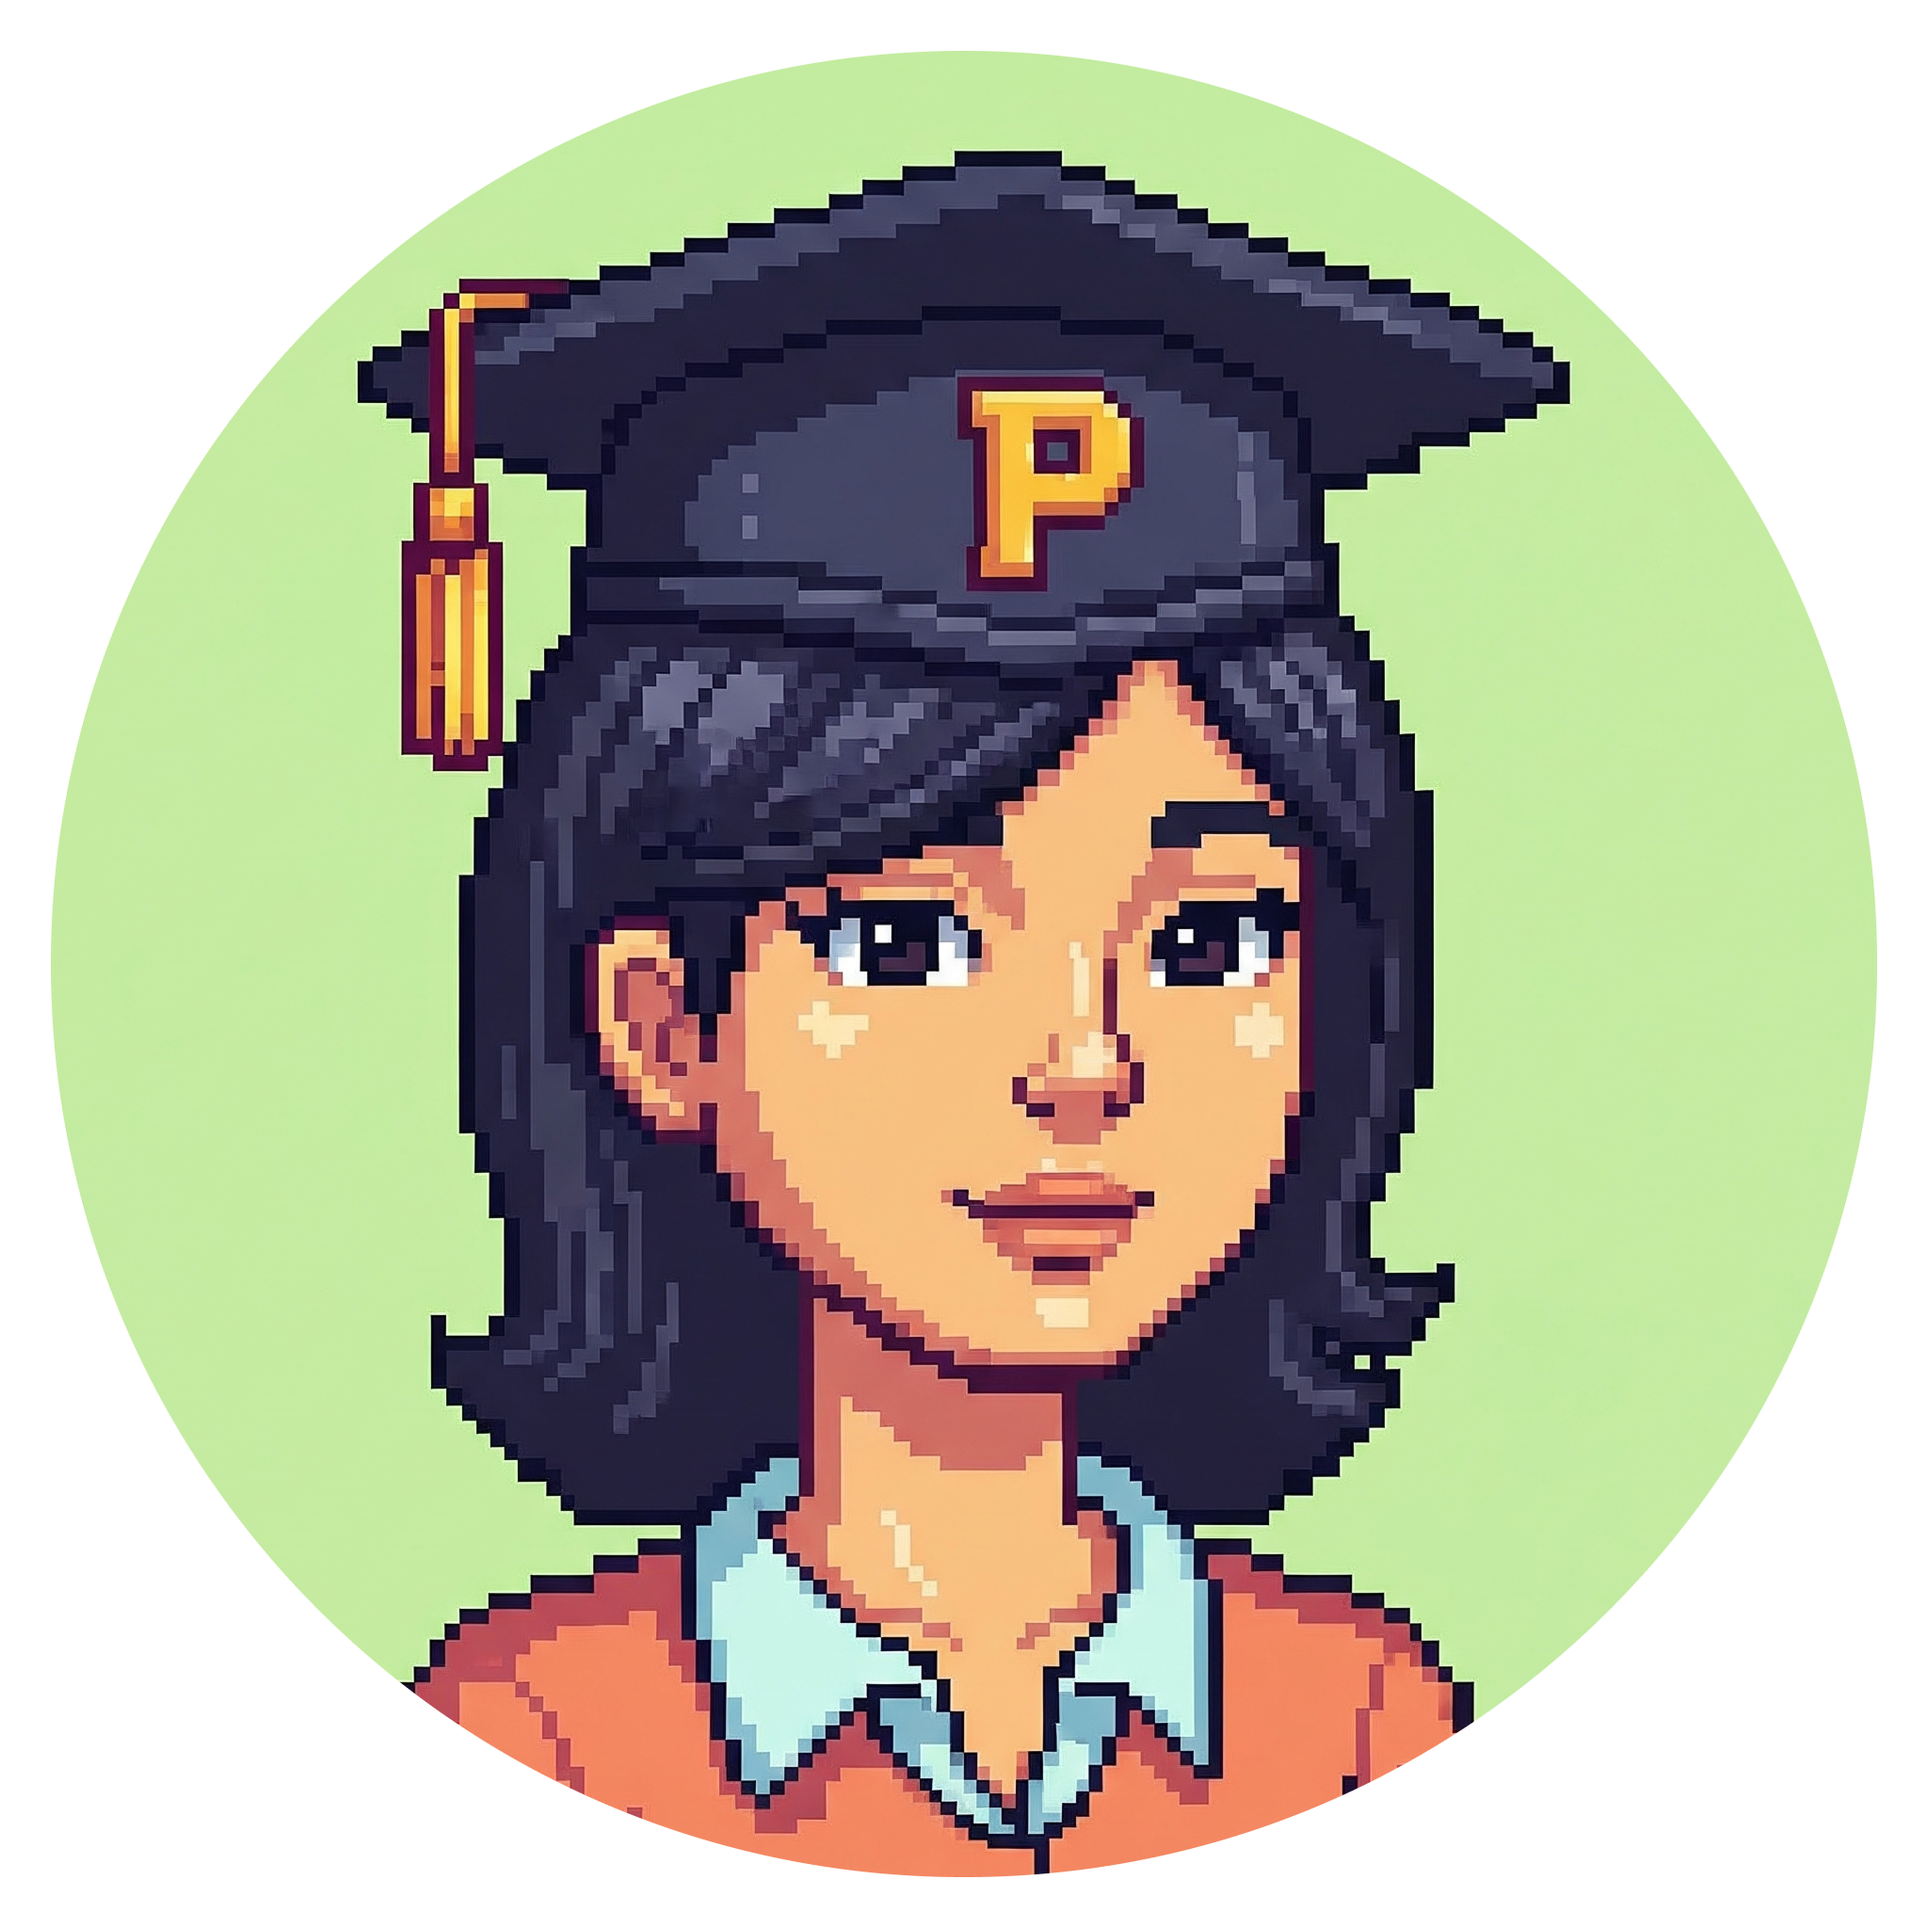
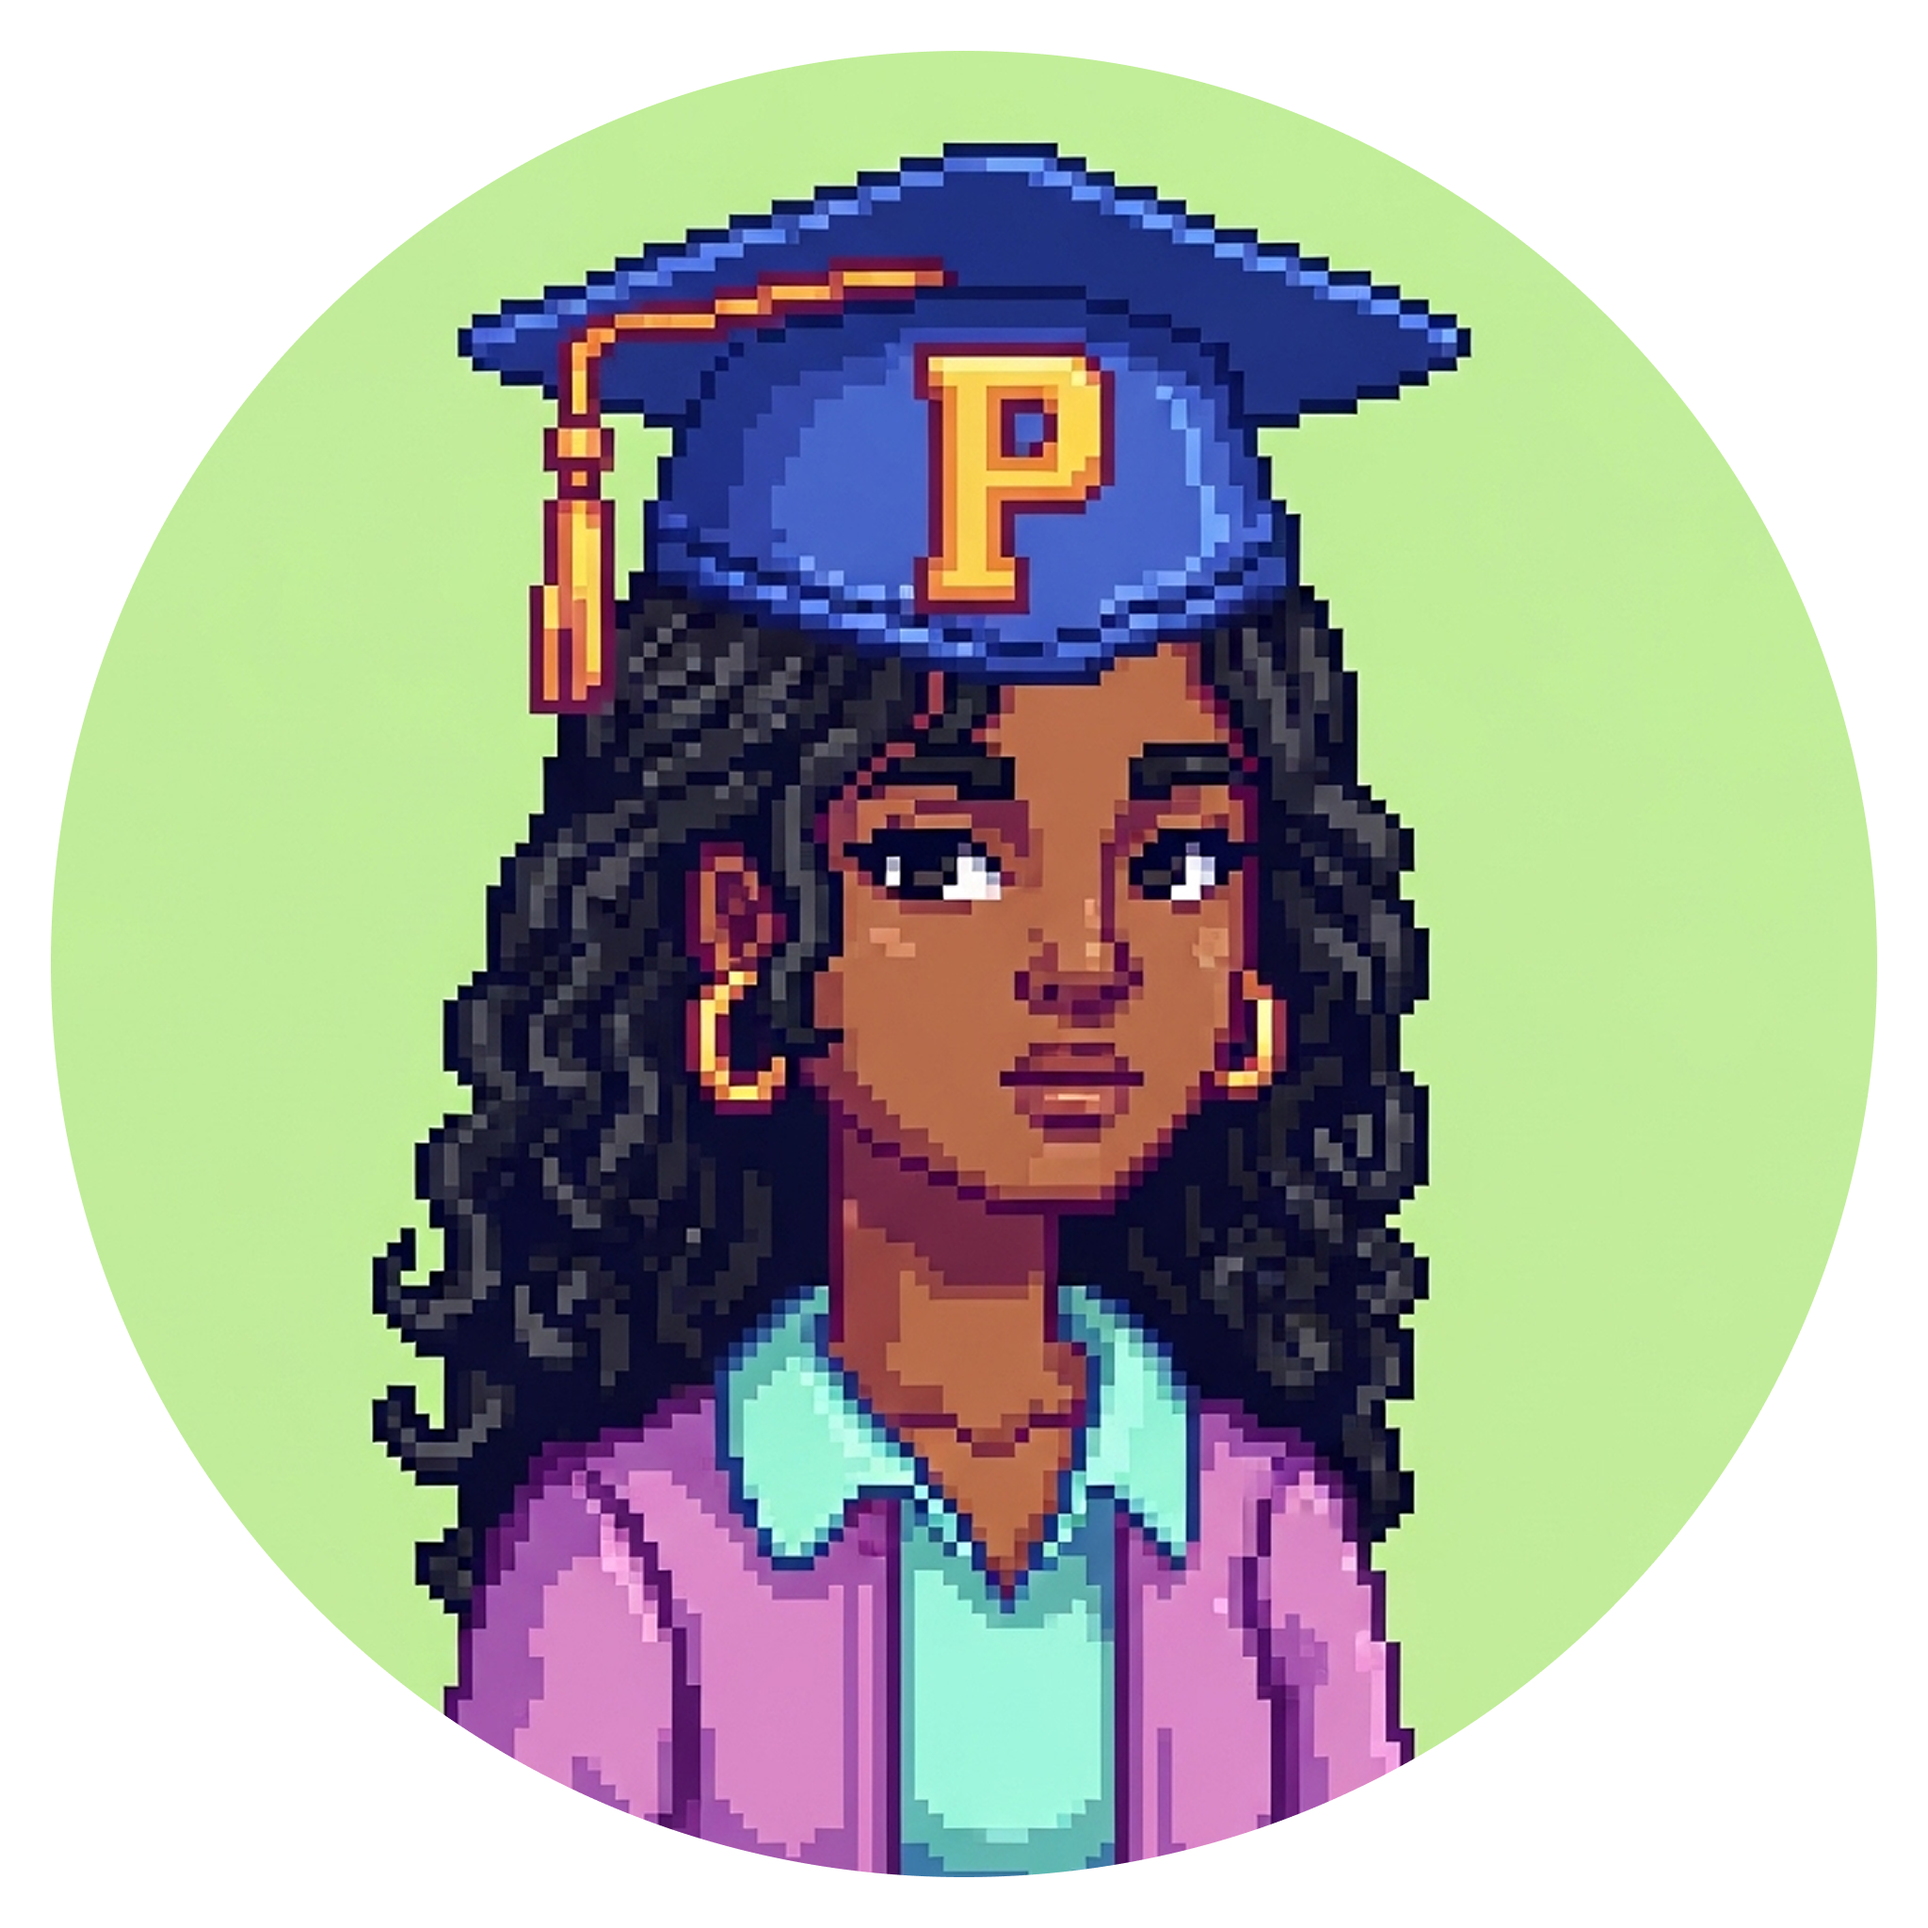
função de desbloquear avatares adicionada

diff --git a/public/js/navbar.js b/public/js/navbar.js
@@ -1,35 +1,22 @@
-function initNavFunctionality() {
-  const navLinks = document.querySelectorAll('.nav-menu a');
-  
-  navLinks.forEach(link => {
-      link.addEventListener('click', function(event) {
-          event.preventDefault();
-          const targetSection = document.querySelector(this.getAttribute('href'));
-          if (targetSection) {
-              targetSection.scrollIntoView({ behavior: 'smooth' });
-          }
-      });
-  });
-}
-
 // Função para carregar a barra de navegação
 function loadNavbar() {
-  fetch('/views/nav.html') // Carrega o conteúdo de navbar.html
-      .then(response => response.text())
-      .then(data => {
-          document.getElementById('navbar').innerHTML = data;
-          initNavFunctionality(); // Inicializa as funcionalidades após carregar a nav
-          verificarLogin(); // Verifica o estado de login após a navbar ser carregada
-      });
+  fetch('/views/nav.html')
+    .then(response => response.text())
+    .then(data => {
+      document.getElementById('navbar').innerHTML = data;
+      verificarLogin(); // Verifica o estado de login após carregar a navbar
+    })
+    .catch(err => {
+      console.error("Erro ao carregar navbar:", err);
+    });
 }
 
 // Redireciona para o topo da página inicial
 function navegacaoLogo() {
   const path = window.location.pathname;
-
   if (path === "/") {
     window.location = '#section-home';
-  } else{
+  } else {
     window.location = '/#section-home';
   }
 }
@@ -45,8 +32,8 @@ async function navegacaoCursos() {
     window.location = '/cursos';
   } else if (path === "/" && !logado) {
     window.location = '#sectionCursos';
-  } else{
-    window.location = '#inicioCursos';
+  } else {
+    window.location = '/#sectionCursos';
   }
 }
 
@@ -54,11 +41,11 @@ async function navegacaoCursos() {
 async function navegacaoLoja() {
   const resposta = await fetch("/sessao");
   const dados = await resposta.json();
-  const path = window.location.pathname;
   const logado = localStorage.getItem("usuarioLogado") === "true";
+
   if (dados.logado && logado) {
     window.location = '/loja';
-  } else{
+  } else {
     window.location = '/login';
   }
 }
@@ -66,24 +53,19 @@ async function navegacaoLoja() {
 // Redireciona para a seção "Fale Conosco"
 function navegacaoFale() {
   const path = window.location.pathname;
-
   if (path === "/") {
     window.location = '#faleConosco';
-  } else{
-    window.location = '/#faleConosco'; // Corrigido
+  } else {
+    window.location = '/#faleConosco';
   }
 }
 
+// Redireciona para a página de perfil
 function navegacaoPerfil() {
-  const path = window.location.pathname;
-
-  if (path === "/") {
-    window.location = '/PaginaPerfil'
-  }else{
-
-  }
+  window.location = '/PaginaPerfil';
 }
 
+// Verifica se o usuário está logado e ajusta a navbar
 async function verificarLogin() {
   try {
     const resposta = await fetch("/sessao");
@@ -92,19 +74,22 @@ async function verificarLogin() {
 
     if (dados.logado && logado) {
       document.getElementById("nomeUsuario").textContent = dados.usuario.nome;
-      document.getElementById("nome-usuario").innerHTML = `${dados.usuario.nome} <span id="usuario-handle">(@${dados.usuario.nome.toLowerCase()})</span>`;
+      const nomeFormatado = `${dados.usuario.nome} <span id="usuario-handle">(@${dados.usuario.nome.toLowerCase()})</span>`;
+      const nomeUsuarioDiv = document.getElementById("nome-usuario");
+      if (nomeUsuarioDiv) nomeUsuarioDiv.innerHTML = nomeFormatado;
+
       document.getElementById("paeeja-moeda-valor").textContent = dados.usuario.moedas;
 
       document.getElementById("botaoEntrarNav").style.display = "none";
       document.getElementById("botaoCadastrarNav").style.display = "none";
 
       document.getElementById("botaoSair").style.display = "inline";
-      nomeUsuario.hidden = false;
-      iconUsuario.hidden = false;
+      document.getElementById("nomeUsuario").hidden = false;
+      document.getElementById("iconUsuario").hidden = false;
     } else {
       document.getElementById("botaoSair").style.display = "none";
-      nomeUsuario.hidden = true;
-      iconUsuario.hidden = true;
+      document.getElementById("nomeUsuario").hidden = true;
+      document.getElementById("iconUsuario").hidden = true;
     }
   } catch (erro) {
     console.error("Erro ao verificar login:", erro);
@@ -115,7 +100,7 @@ async function verificarLogin() {
 function sairLogin(event) {
   event.preventDefault();
   localStorage.removeItem("usuarioLogado");
-  window.location.href = '/logout'
+  window.location.href = '/logout';
 }
 
 // Executa a carga da navbar quando o DOM está completamente carregado

diff --git a/public/js/loja.js b/public/js/loja.js
@@ -6,6 +6,42 @@ document.addEventListener("DOMContentLoaded", () => {
   const modalMessage = document.getElementById("modal-message");
   const btnClose = document.getElementById("close-modal");
 
+  async function verificarItensComprados() {
+    const imagens = document.querySelectorAll(".item-img");
+    
+    for (const img of imagens) {
+      const itemId = img.dataset.id;
+      const tipo = img.dataset.tipo;
+
+      // Se não tiver ID e tipo, pula (ex: imagem faltando dataset)
+      if (!itemId || !tipo) continue;
+
+      try {
+        const resposta = await fetch("/loja/verificar-compra", {
+          method: "POST",
+          headers: { "Content-Type": "application/json" },
+          body: JSON.stringify({ itemId, tipo }),
+          credentials: "same-origin"
+        });
+
+        const resultado = await resposta.json();
+
+        if (resultado.sucesso && resultado.comprado) {
+          img.src = img.src.replace(".png", "-desblock.png");
+          const parent = img.closest(".item");
+          if (parent) {
+            const price = parent.querySelector("p");
+            if (price) price.remove();
+          }
+        }
+      } catch (error) {
+        console.error("Erro ao verificar item comprado:", error);
+      }
+    }
+  }
+
+  verificarItensComprados();
+
   document.querySelectorAll(".item-img").forEach(img => {
   img.addEventListener("click", async () => {
     selectedItemId = img.dataset.id;
@@ -72,6 +108,18 @@ document.addEventListener("DOMContentLoaded", () => {
       modalMessage.textContent = resultado.message;
       modalMessage.style.color = resultado.sucesso ? "green" : "red";
       btnClose.style.display = "inline-block";
+      if (resultado.sucesso) {
+        const img = document.querySelector(`.item-img[data-id="${selectedItemId}"][data-tipo="${selectedTipo}"]`);
+        if (img) {
+          img.src = img.src.replace(".png", "-desblock.png");
+          const parent = img.closest(".item");
+          if (parent) {
+            const price = parent.querySelector("p");
+            if (price) price.remove();
+          }
+        }
+      }
+
     } catch (error) {
       btnYes.style.display = "none";
       btnNo.style.display = "none";
@@ -87,7 +135,10 @@ document.addEventListener("DOMContentLoaded", () => {
     modal.style.display = "none";
   });
 
-  btnClose.addEventListener("click", () => {
+  btnClose.addEventListener("click", async () => {
     modal.style.display = "none";
+    const respostaDadosUsuario = await fetch("/sessao");
+    const dadosUsuario = await respostaDadosUsuario.json();
+    document.getElementById("paeeja-moeda-valor").textContent = dadosUsuario.usuario.moedas;
   });
 });

diff --git a/public/views/loja.html b/public/views/loja.html
@@ -42,11 +42,23 @@
 
       <div class="section-title">Avatares</div>
       <div class="grid">
-       <div class="item"><img src="/imgs/images-avatares/avatar-1.png" alt="Plano de Fundo 1" data-id="1" data-tipo="capa" class="item-img"/><p>50</p></div>
-      <div class="item"><img src="/imgs/images-avatares/avatar-2.png" alt="Plano de Fundo 2" class="item-img"/><p>50</p></div>
-      <div class="item"><img src="/imgs/images-avatares/avatar-fem.png" alt="Plano de Fundo 3" class="item-img"/><p>50</p></div>
-      <div class="item"><img src="/imgs/images-avatares/avatar-fem2.png" alt="Plano de Fundo 4" class="item-img"/> <p>50</p></div>
+      <div class="item">
+      <img src="/imgs/images-avatares/avatar-1.png" alt="..." data-id="1" data-tipo="avatar" class="item-img" />
+      <p>50</p>
       </div>
+      <div class="item">
+        <img src="/imgs/images-avatares/avatar-2.png" alt="..." data-id="2" data-tipo="avatar" class="item-img" />
+        <p>50</p>
+      </div>
+      <div class="item">
+        <img src="/imgs/images-avatares/avatar-fem.png" alt="..." data-id="3" data-tipo="avatar" class="item-img" />
+        <p>50</p>
+      </div>
+      <div class="item">
+        <img src="/imgs/images-avatares/avatar-fem2.png" alt="..." data-id="4" data-tipo="avatar" class="item-img" />
+        <p>50</p>
+      </div>
+    </div>
 
     </section>
   </div>

diff --git a/models/models.js b/models/models.js
@@ -18,22 +18,12 @@ async function buscarNomeUsuario(email) {
 }
 
 async function buscarCapas() {
-  const [capas] = await db.query("SELECT id, nome, preco FROM capas");
-  return capas;
-}
-
-async function buscarTemas() {
-  const [temas] = await db.query("SELECT id, nome, preco FROM temas");
-  return temas;
+  const [avatar] = await db.query("SELECT id, nome, preco FROM avatar");
+  return avatar;
 }
 
 async function buscarPrecoItem(tipo, itemId) {
-  const [rows] = await db.query(
-    tipo === 'capa'
-      ? "SELECT preco FROM capas WHERE id = ?"
-      : "SELECT preco FROM temas WHERE id = ?",
-    [itemId]
-  );
+  const [rows] = await db.query("SELECT preco FROM avatar WHERE id = ?", [itemId]);
   return rows[0];
 }
 
@@ -66,7 +56,6 @@ module.exports = {
   buscarPorEmailSenha,
   buscarNomeUsuario,
   buscarCapas,
-  buscarTemas,
   buscarPrecoItem,
   buscarMoedas,
   jaComprou,

diff --git a/controllers/controllers.js b/controllers/controllers.js
@@ -52,9 +52,9 @@ async function verificarSessao(req, res) {
 
 async function getItensLoja(req, res) {
   try {
-    const capas = await usuarioModel.buscarCapas();
+    const avatar = await usuarioModel.buscarCapas();
     const temas = await usuarioModel.buscarTemas();
-    res.json({ capas, temas });
+    res.json({ avatar, temas });
   } catch (err) {
     console.error(err);
     return res.status(401).json({ message: "Erro ao buscar itens da loja." });
@@ -88,6 +88,9 @@ async function comprarItem(req, res) {
 
     await usuarioModel.descontarMoedas(usuarioId, item.preco);
     await usuarioModel.registrarCompra(usuarioId, tipo, itemId);
+
+    const novoSaldo = await usuarioModel.buscarMoedas(usuarioId);
+    req.session.usuario.moedas = novoSaldo.moedas;
 
     return res.json({ sucesso: true, message: "Compra realizada com sucesso!" });
   } catch (err) {
